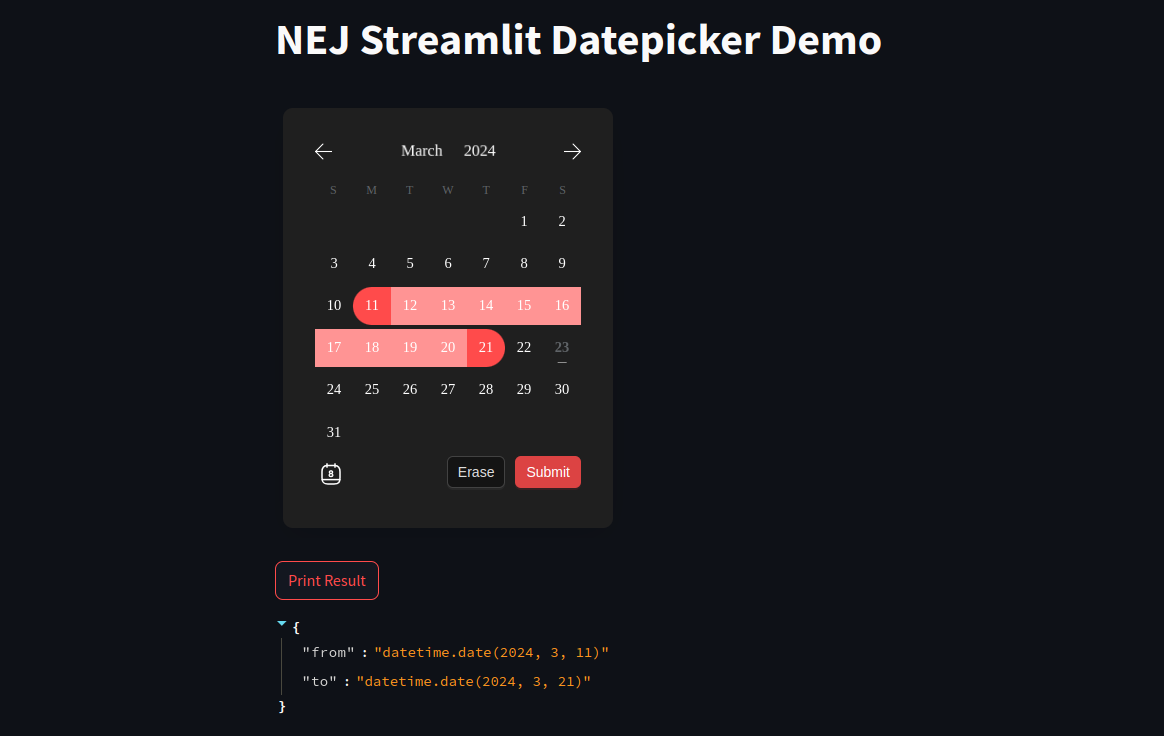
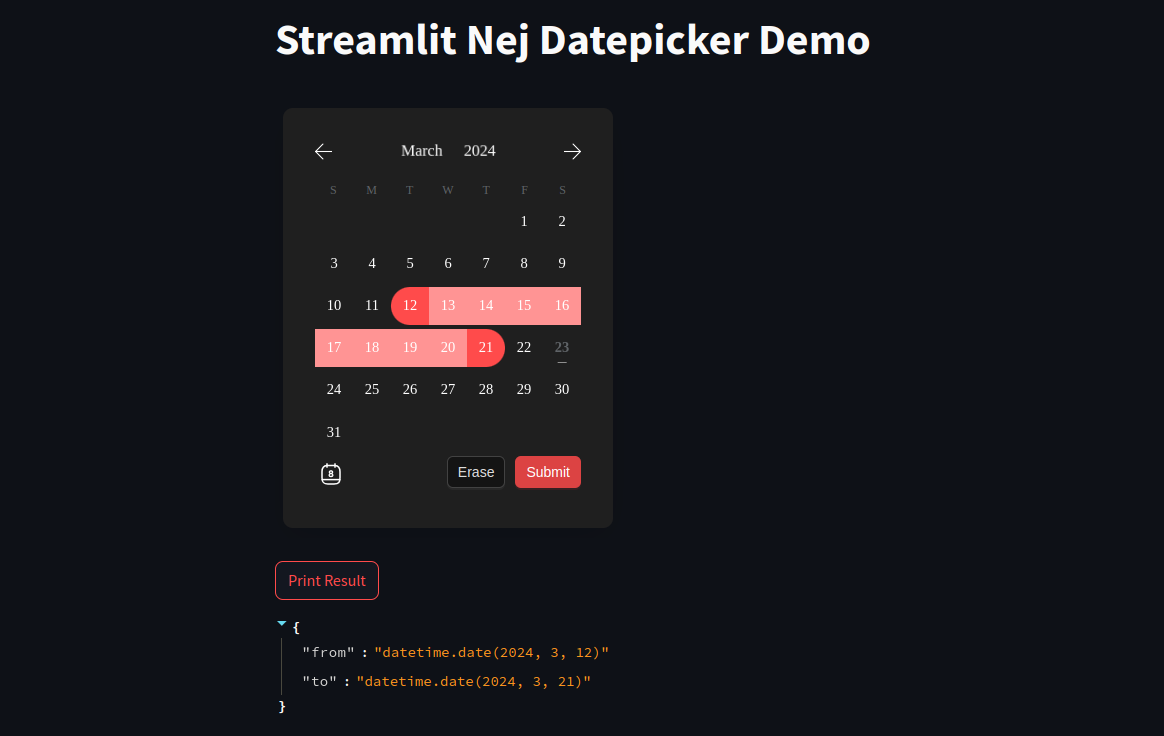
Update demo

Changed region(s): [[0.2165, 0.0312, 0.7732, 0.0938], [0.2784, 0.375, 0.3711, 0.4688]]

diff --git a/demo.py b/demo.py
@@ -4,11 +4,11 @@ import jdatetime
 
 
 def main():
-    st.title("NEJ Streamlit Datepicker Demo")
+    st.title("Streamlit Nej Datepicker Demo")
 
     # Add your configuration here
-    config = Config(dark_mode=True, locale="en", disabled_days=[jdatetime.date.today()], color_primary="#ff4b4b",
-                    color_primary_light="#ff9494", selection_mode="range")
+    config = Config(dark_mode=False, locale="en", disabled_days=[jdatetime.date.today()], color_primary="#ff4b4b",
+                    color_primary_light="#ff9494", selection_mode="bug")
 
     result = datepicker_component(config=config)
 

diff --git a/README.md b/README.md
@@ -28,7 +28,7 @@ import jdatetime
 
 
 def main():
-    st.title("NEJ Streamlit Datepicker Demo")
+    st.title("Streamlit Nej Datepicker Demo")
 
     # Add your configuration here
     config = Config(dark_mode=True, locale="en", disabled_days=[jdatetime.date.today()], color_primary="#ff4b4b",
